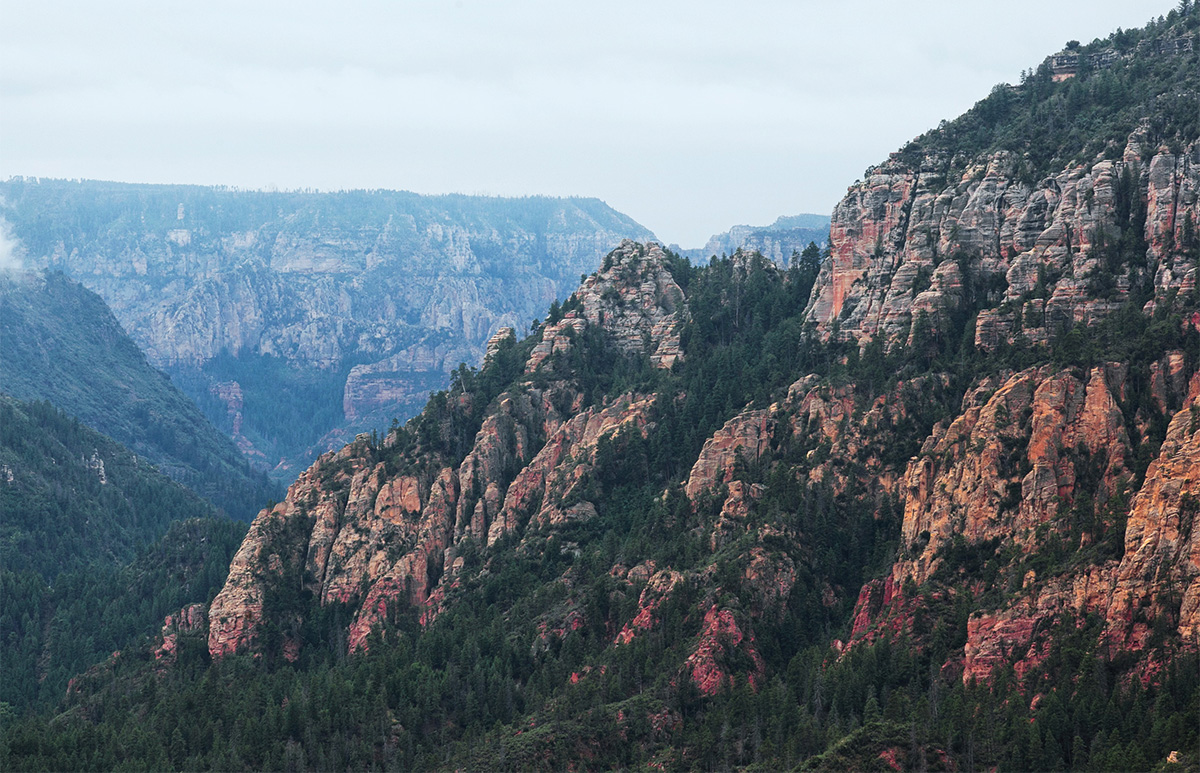
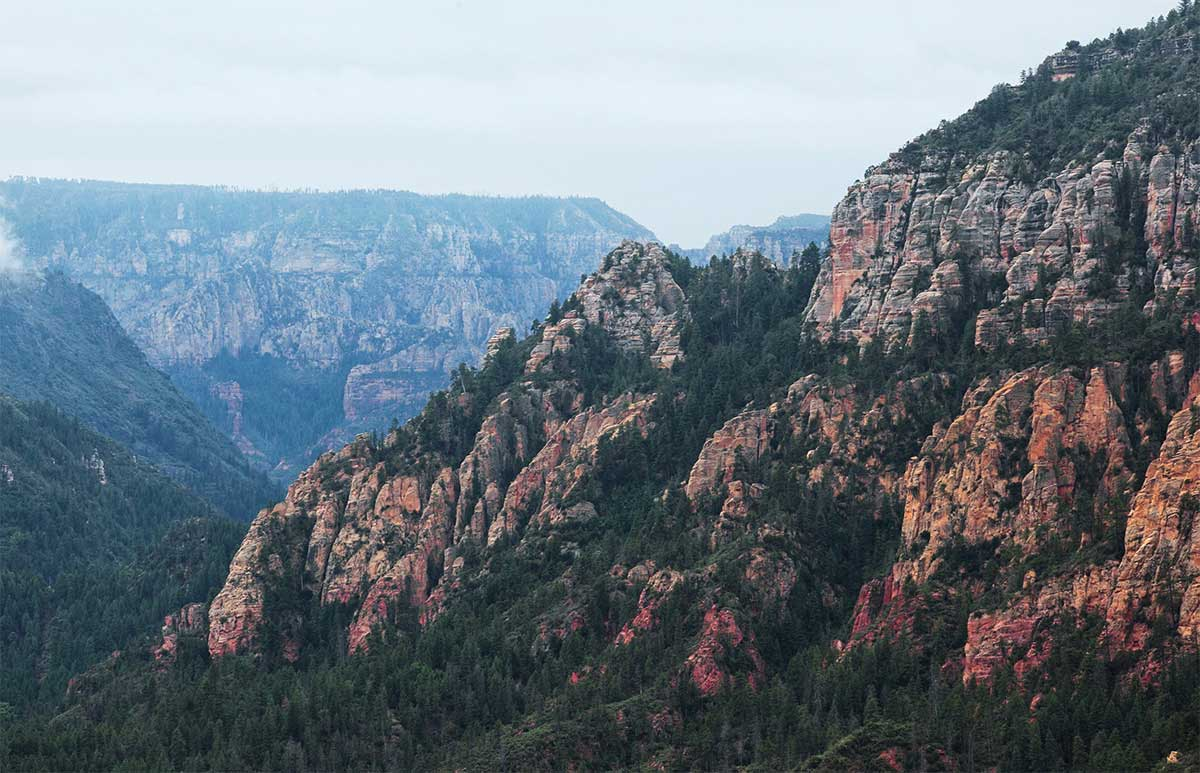
images optimized

diff --git a/Golden/index.html b/Golden/index.html
@@ -98,7 +98,7 @@
                         <div class="row">
                             <div class="col-md-4 col-sm-6">
                                 <figure class="portfolio-item">
-                                    <a href="#index.html"><img src="images/Portfolio-image1.png" alt="Ebony &amp; ivory" width="290" height="300">
+                                    <a href="#index.html"><img src="images/Portfolio-image1.jpg" alt="Ebony &amp; ivory" width="290" height="300">
                                     </a>
                                     <figcaption>
                                         <h4>Ebony &amp; ivory</h4>
@@ -108,7 +108,7 @@
                             </div>
                             <div class="col-md-4 col-sm-6">
                                 <figure class="portfolio-item">
-                                    <a href="#index.html"><img src="images/Portfolio-image2.png" alt="Smart stationary" width="290" height="300">
+                                    <a href="#index.html"><img src="images/Portfolio-image2.jpg" alt="Smart stationary" width="290" height="300">
                                     </a>
                                     <figcaption>
                                         <h4>Smart stationary</h4>
@@ -118,7 +118,7 @@
                             </div>
                             <div class="col-md-4 col-sm-6">
                                 <figure class="portfolio-item">
-                                    <a href="#index.html"><img src="images/Portfolio-image3.png" alt="Clever poster" width="290" height="300">
+                                    <a href="#index.html"><img src="images/Portfolio-image3.jpg" alt="Clever poster" width="290" height="300">
                                     </a>
                                     <figcaption>
                                         <h4>Clever poster</h4>
@@ -128,7 +128,7 @@
                             </div>
                             <div class="col-md-4 col-sm-6">
                                 <figure class="portfolio-item">
-                                    <a href="#index.html"><img src="images/Portfolio-image4.png" alt="Vinyl record" width="290" height="300">
+                                    <a href="#index.html"><img src="images/Portfolio-image4.jpg" alt="Vinyl record" width="290" height="300">
                                     </a>
                                     <figcaption>
                                         <h4>Vinyl record</h4>
@@ -138,7 +138,7 @@
                             </div>
                             <div class="col-md-4 col-sm-6">
                                 <figure class="portfolio-item">
-                                    <a href="#index.html"><img src="images/Portfolio-image5.png" alt="Treehouse template" width="290" height="300">
+                                    <a href="#index.html"><img src="images/Portfolio-image5.jpg" alt="Treehouse template" width="290" height="300">
                                     </a>
                                     <figcaption>
                                         <h4>Treehouse template</h4>
@@ -148,7 +148,7 @@
                             </div>
                             <div class="col-md-4 col-sm-6">
                                 <figure class="portfolio-item">
-                                    <a href="#index.html"><img src="images/Portfolio-image6.png" alt="Burned logo" width="290" height="300">
+                                    <a href="#index.html"><img src="images/Portfolio-image6.jpg" alt="Burned logo" width="290" height="300">
                                     </a>
                                     <figcaption>
                                         <h4>Burned logo</h4>
